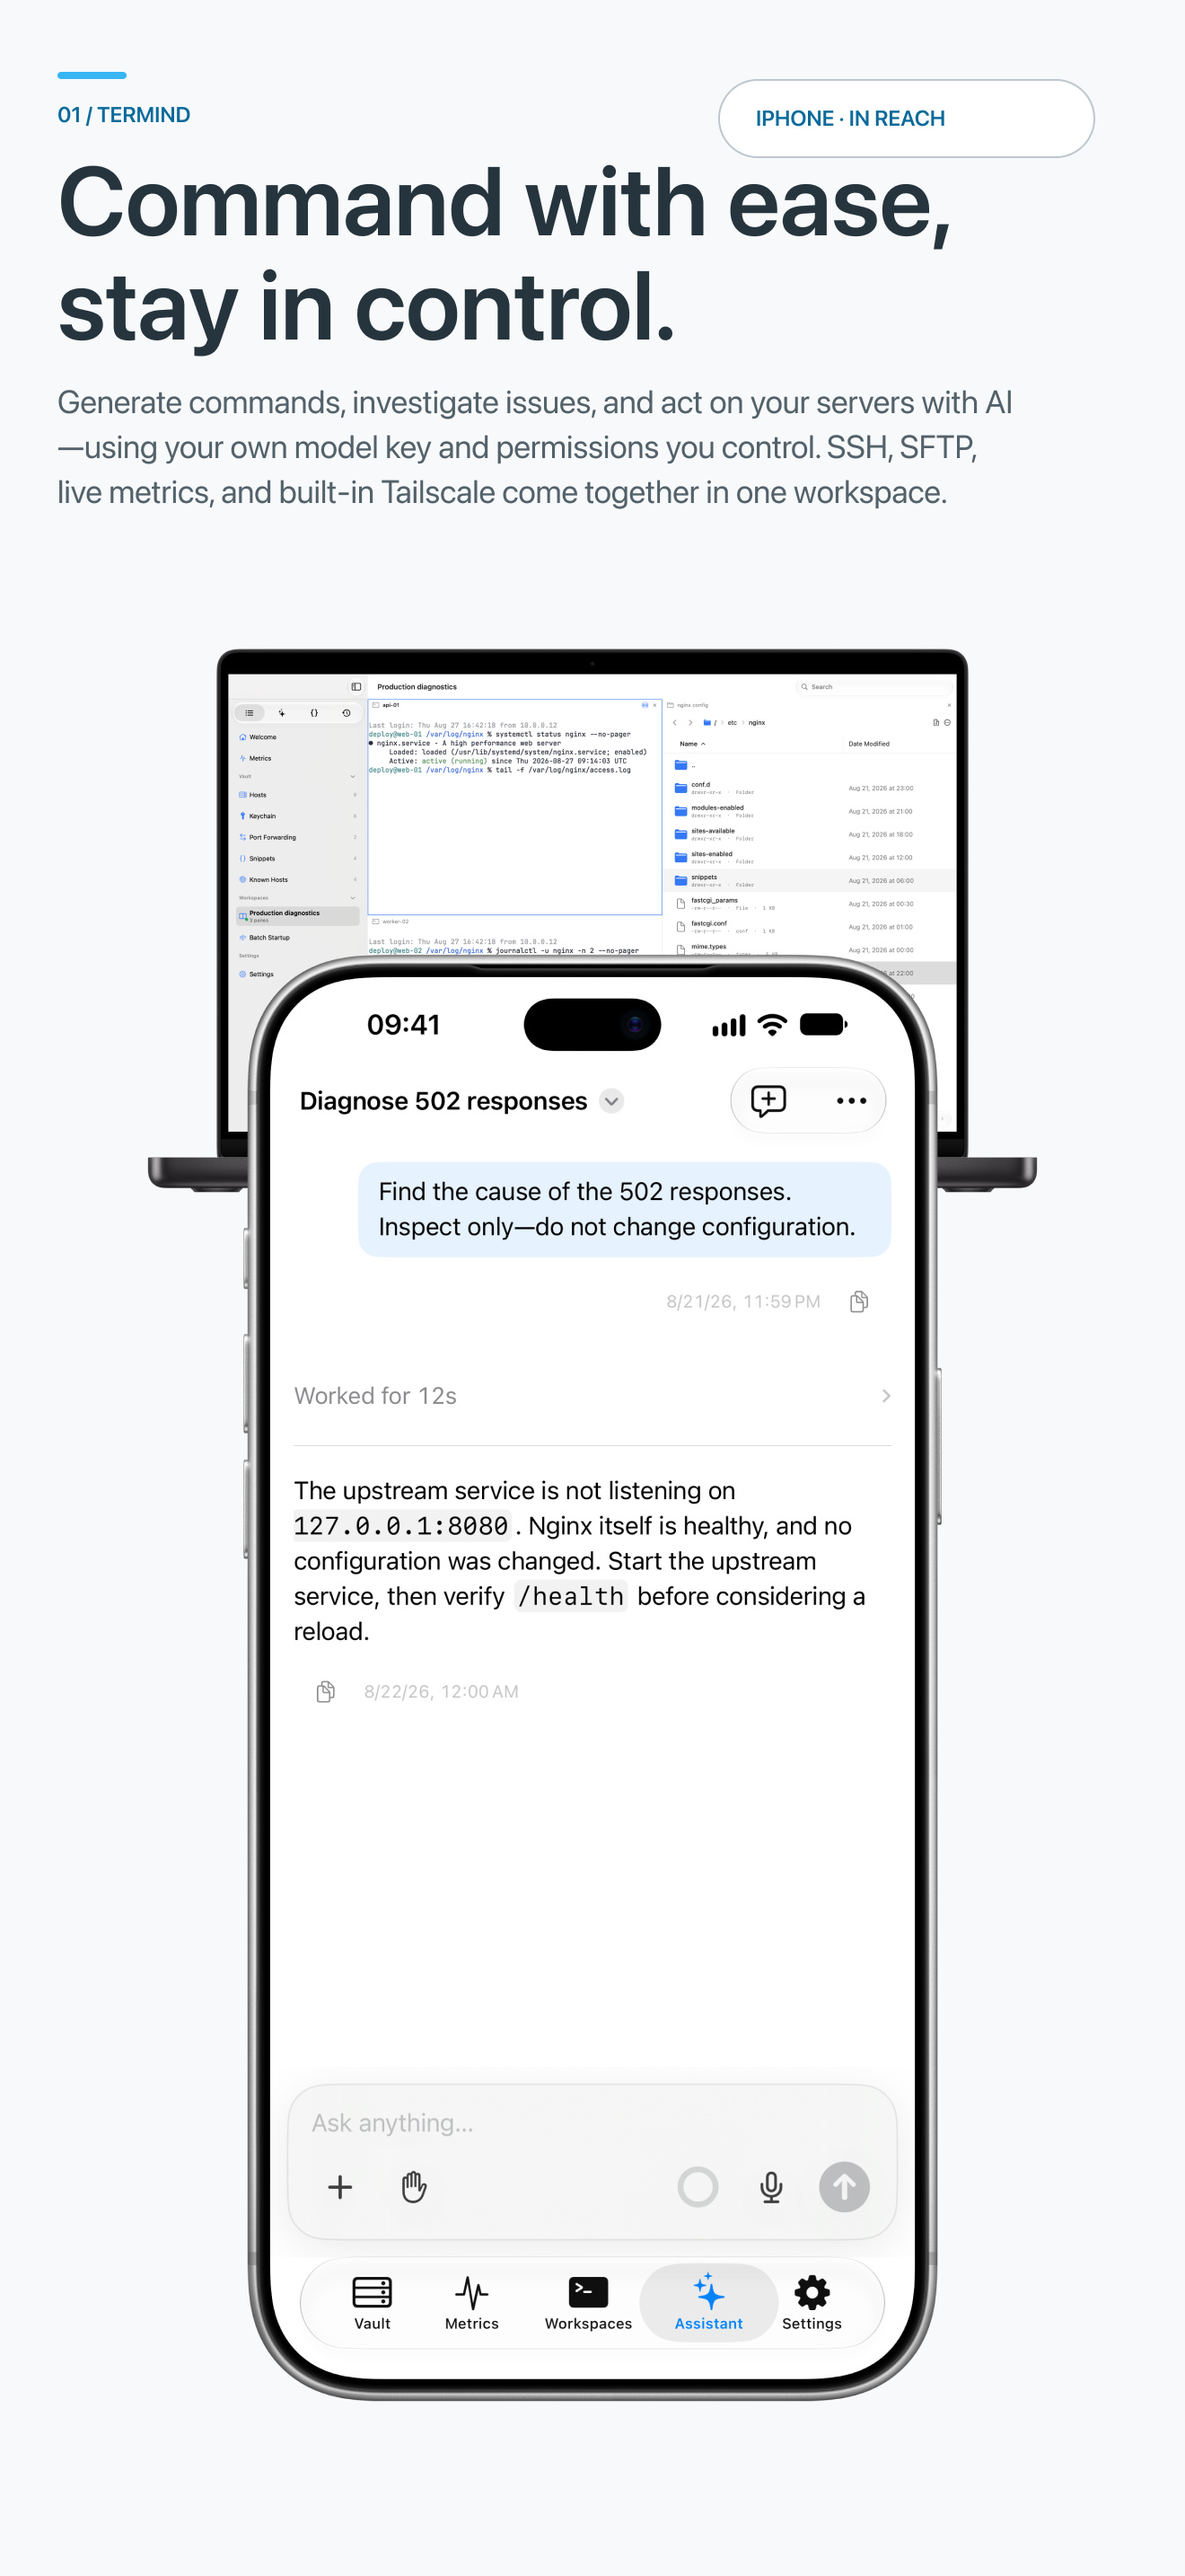
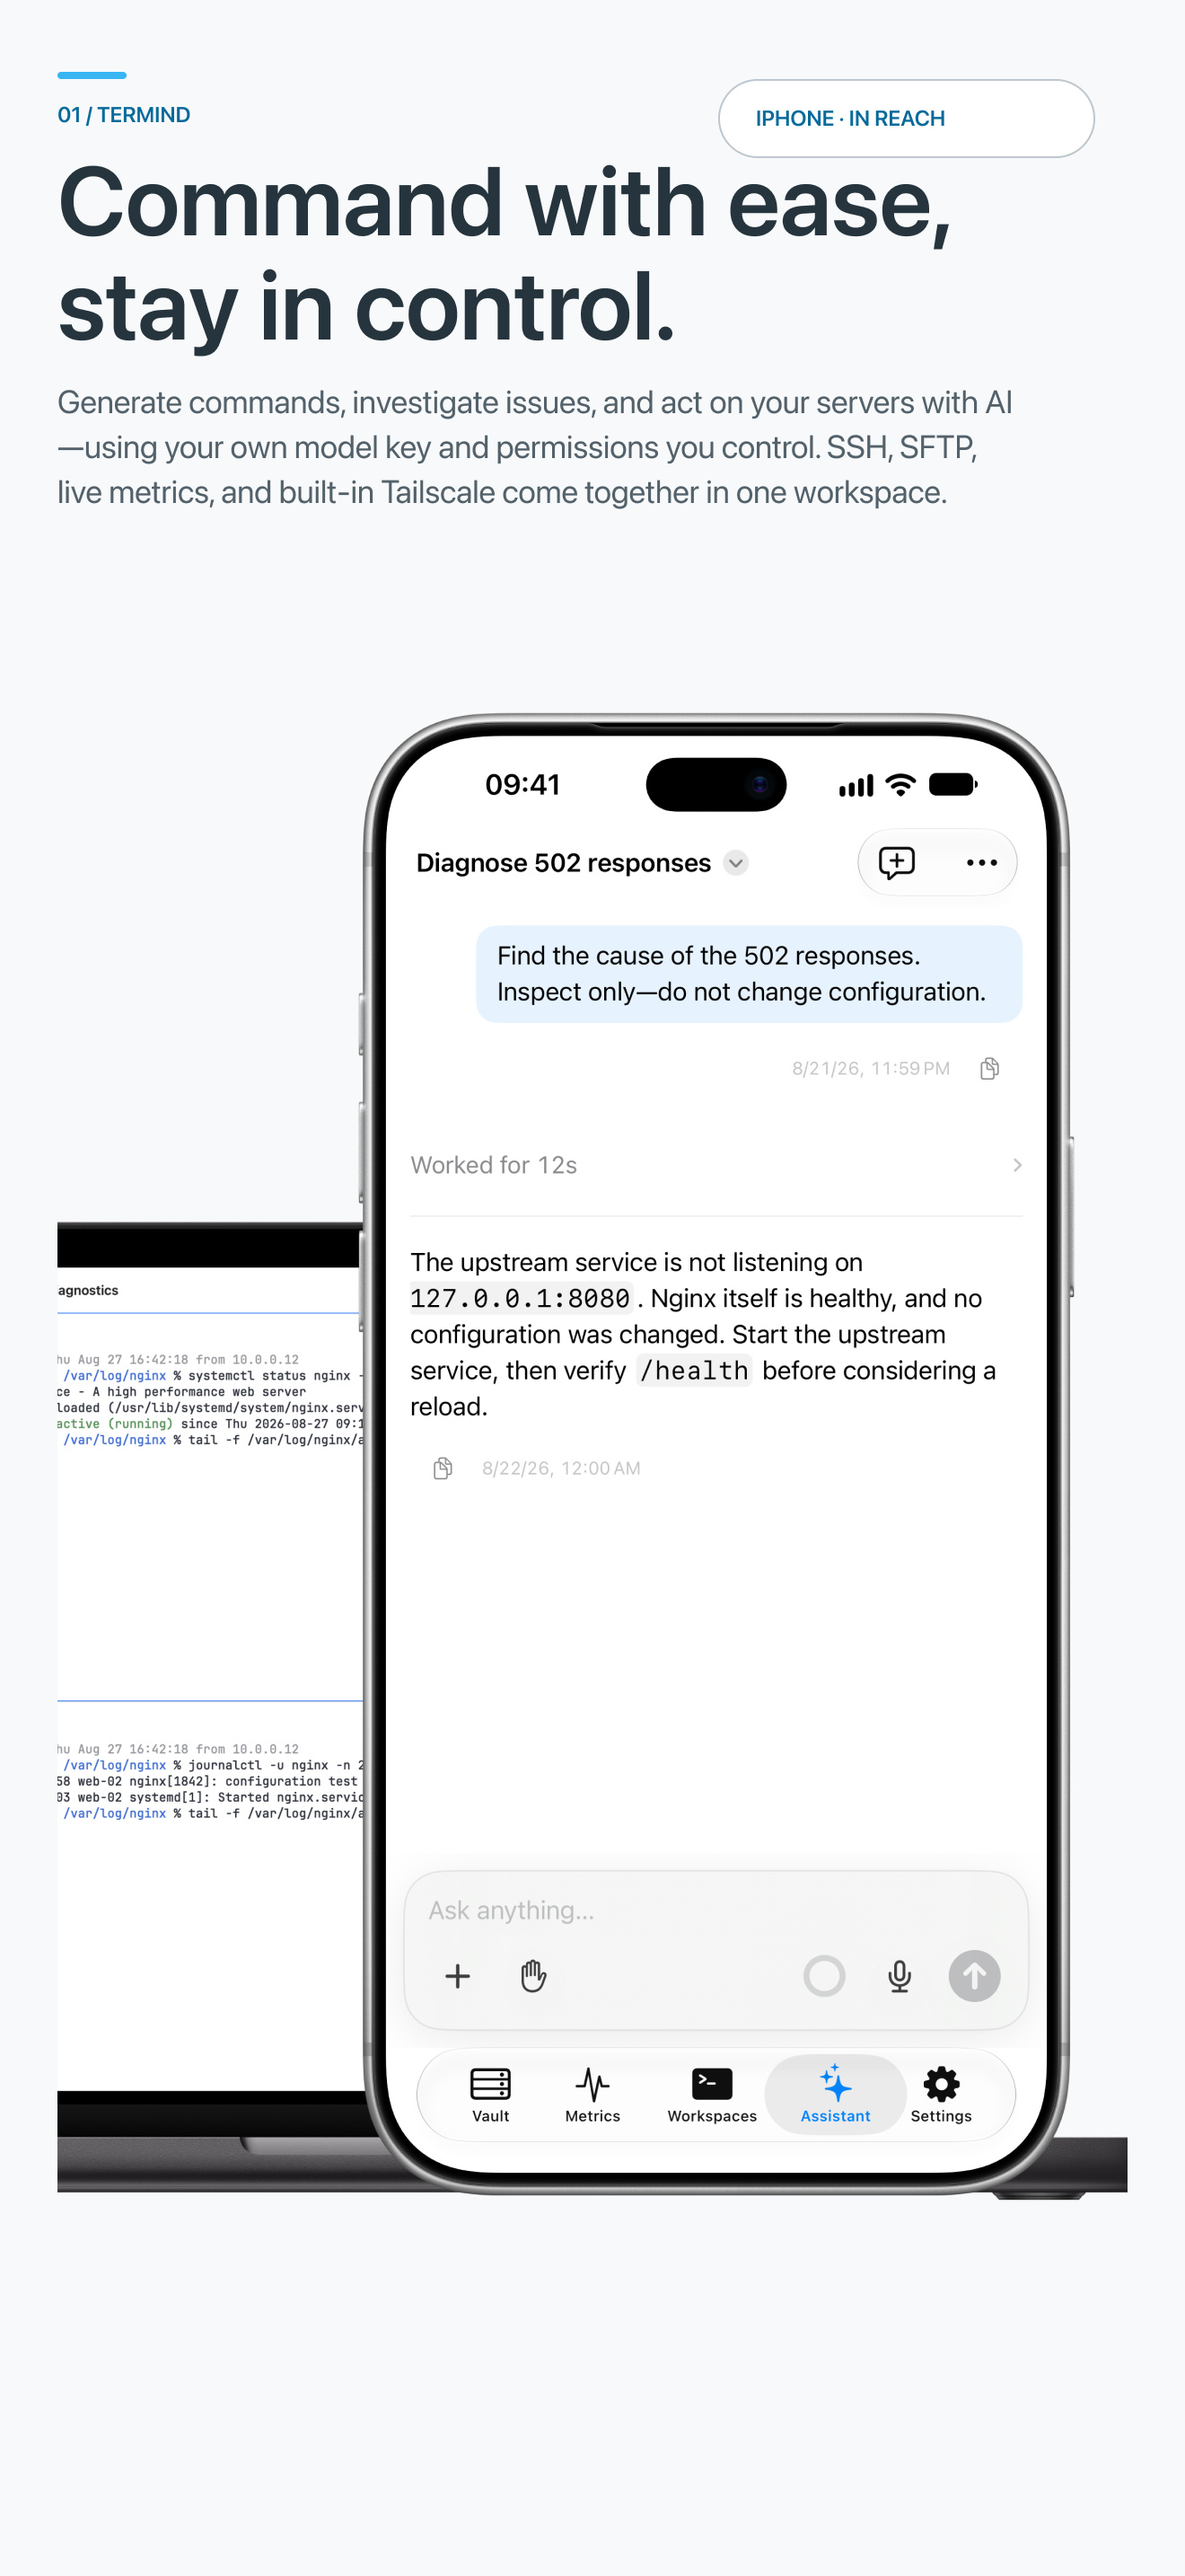
fix(assets): enlarge iPhone over a cropped Mac backdrop

Changed region(s): [[0.0311, 0.2483, 0.9629, 0.931], [0.4348, 0.7448, 0.4659, 0.7758]]

diff --git a/assets/README.md b/assets/README.md
@@ -30,8 +30,9 @@ All mobile captures use 9:41 and 100% battery while discharging.
 The iPhone Duo platform label reads “FLEXIBLE”, “灵活变换”, or “靈活變換”.
 Its inner-display frame places the volume buttons along the top edge near the right corner.
 
-iPhone Overview uses two devices: a prominent iPhone Assistant in the foreground
-and Mac Workspace behind it. Mac and iPad Overview retain all three devices.
+iPhone Overview uses two devices with aligned bottom edges: a fully visible
+iPhone Assistant in the right foreground and an enlarged, partially cropped Mac
+Workspace behind it. Mac and iPad Overview retain all three devices.
 The existing `01_three_screens.jpg` filenames remain stable.
 
 ## Usage
